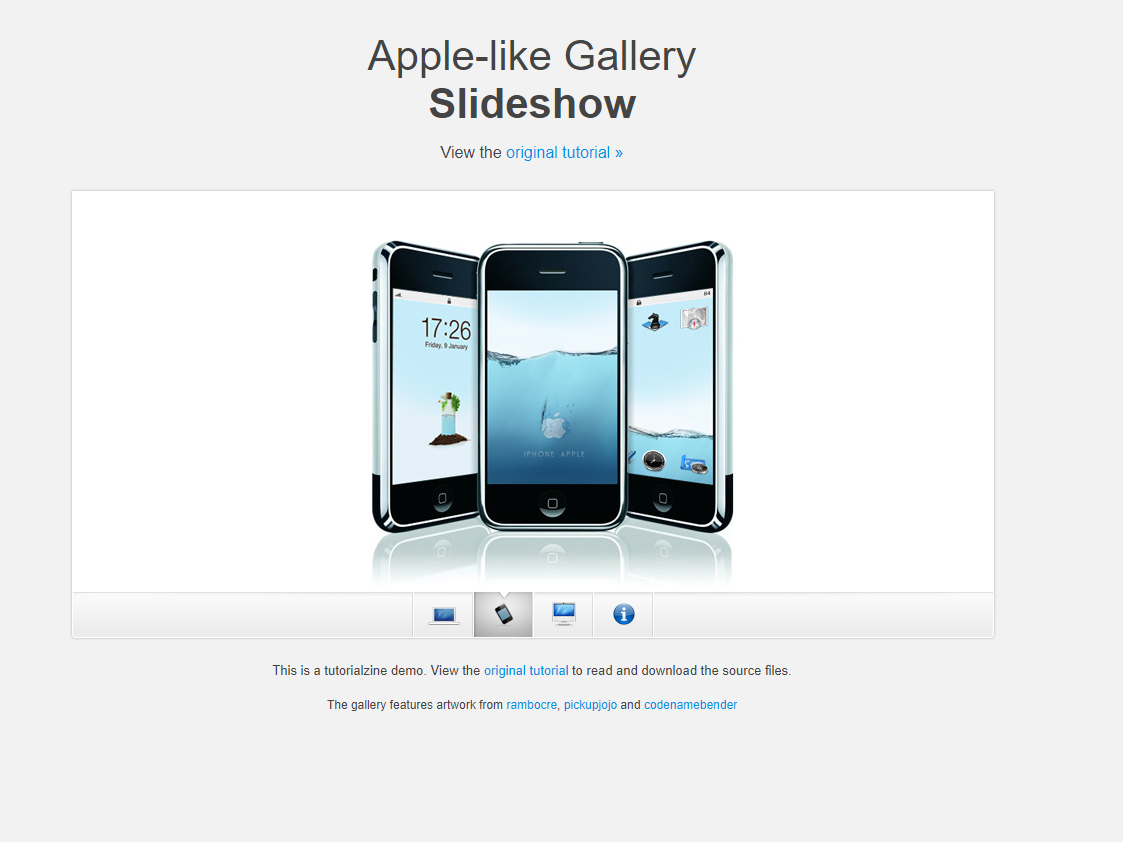
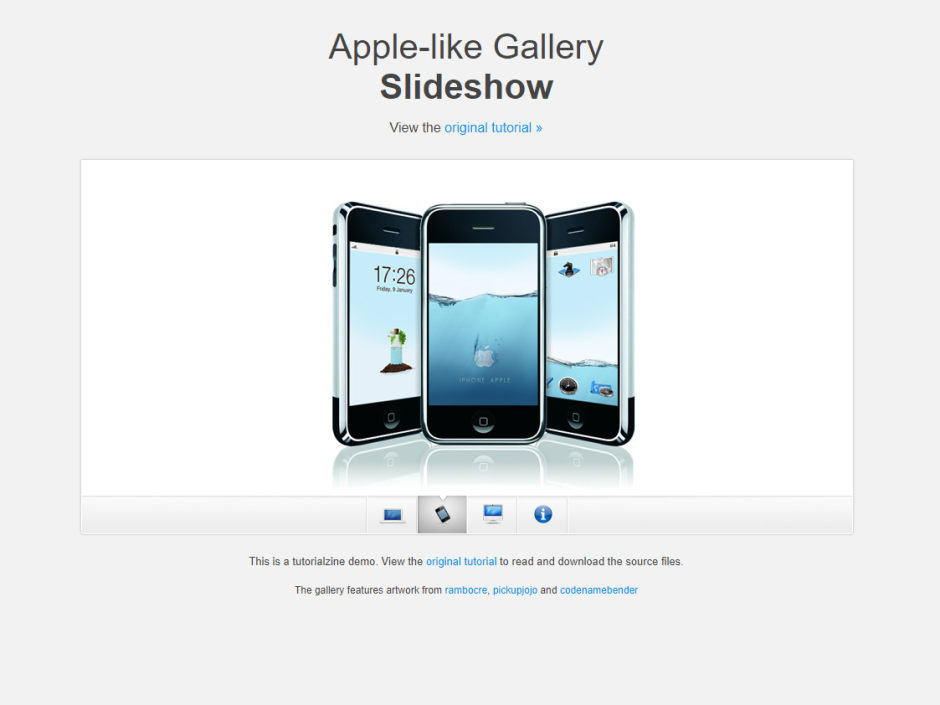
更新图片

Changed region(s): [[0.3085, 0.2809, 0.6787, 0.6865], [0.2468, 0.6865, 0.7404, 0.8426], [0.3085, 0.0312, 0.6479, 0.1872]]

diff --git a/index.html b/index.html
@@ -237,8 +237,6 @@
       <!-- 如果需要导航按钮 -->
       <div class="swiper-button-prev"></div>
       <div class="swiper-button-next"></div>
-      
-      <!-- 如果需要滚动条 -->
   </div>
   </section>
 
@@ -247,25 +245,7 @@
   <script src="http://cdnjs.cloudflare.com/ajax/libs/tween.js/17.1.1/Tween.min.js"></script>
   <script src="./node_modules/swiper/dist/js/swiper.min.js"></script>
   <script src="./main.js"></script>
-  <script>        
-    var mySwiper = new Swiper ('.swiper-container', { // 垂直切换选项
-      loop: true, // 循环模式选项
-      
-      // 如果需要分页器
-      pagination: {
-        el: '.swiper-pagination',
-      },
-      
-      // 如果需要前进后退按钮
-      navigation: {
-        nextEl: '.swiper-button-next',
-        prevEl: '.swiper-button-prev',
-      },
-      
-      // 如果需要滚动条
-      
-    })        
-    </script>
+  <script src="./init-siwper.js"></script>
 </body>
 
 </html>

diff --git a/a.css b/a.css
@@ -259,6 +259,7 @@ section.portfolio{
     margin-left: auto;
     margin-right: auto;
     margin-top:60px;
+    
 }
 section.skills > h2,
 section.portfolio > h2 {
@@ -276,6 +277,7 @@ section.skills>h3 {
 }
 ol,ul {
     list-style: none;
+    box-shadow: 0 0 5px rgba(0,0,0,0.2);
 }
 section.skills>ol {
     background:white;
@@ -311,12 +313,13 @@ section.skills.offset .color{
 }
 section.portfolio {
     text-align: center;
+    
 }
-
-.swiper-container {
-    width: 888px;
-    height: 666px;
-}  
-.swiper-slide {
-    margin-top: 60px;
+section.portfolio .swiper-container {
+    width: 940px;
+    height: 705px;
+    box-shadow: 0 0 5px rgba(0,0,0,0.2);
+}
+section.portfolio > h2 {
+    margin-bottom: 32px;
 }

diff --git a/init-siwper.js b/init-siwper.js
@@ -1,0 +1,17 @@
+var mySwiper = new Swiper ('.swiper-container', { // 垂直切换选项
+    loop: true, // 循环模式选项
+    
+    // 如果需要分页器
+    pagination: {
+      el: '.swiper-pagination',
+    },
+    
+    // 如果需要前进后退按钮
+    navigation: {
+      nextEl: '.swiper-button-next',
+      prevEl: '.swiper-button-prev',
+    },
+    
+    // 如果需要滚动条
+    
+  })        
